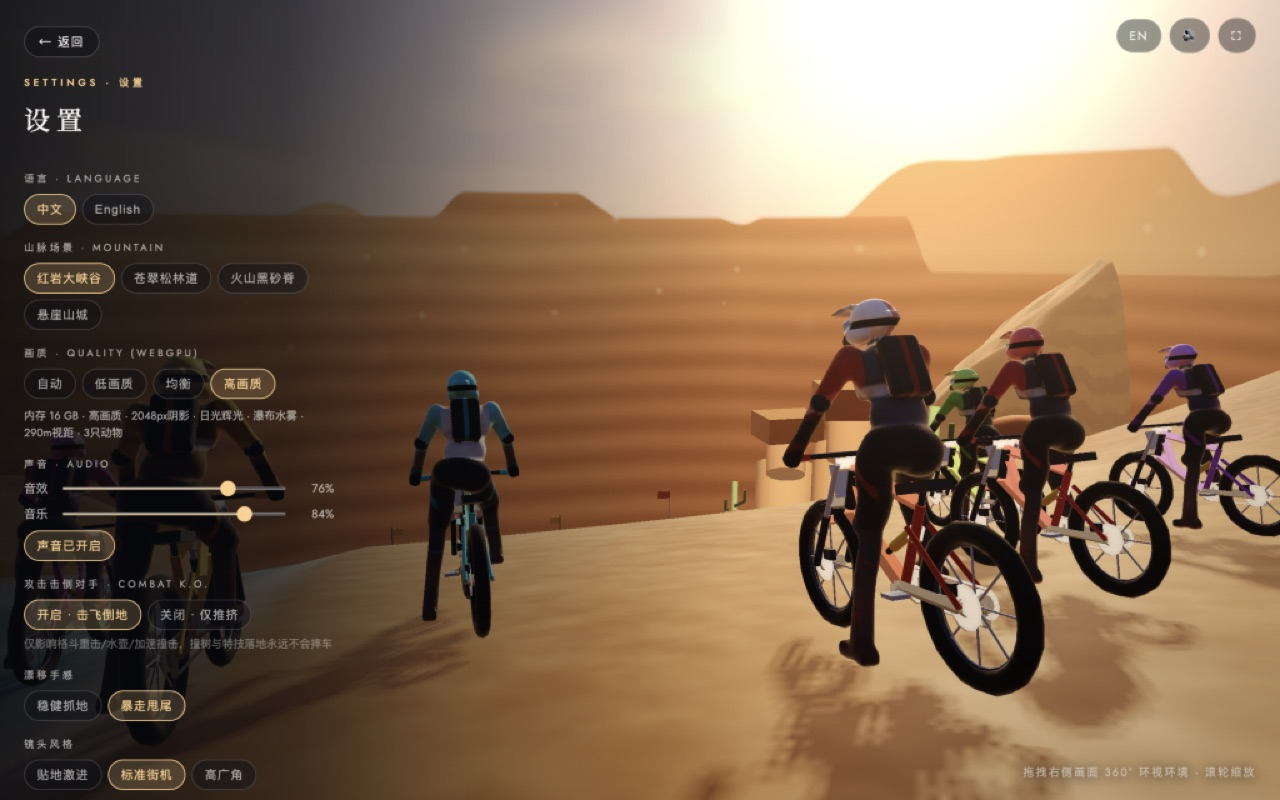
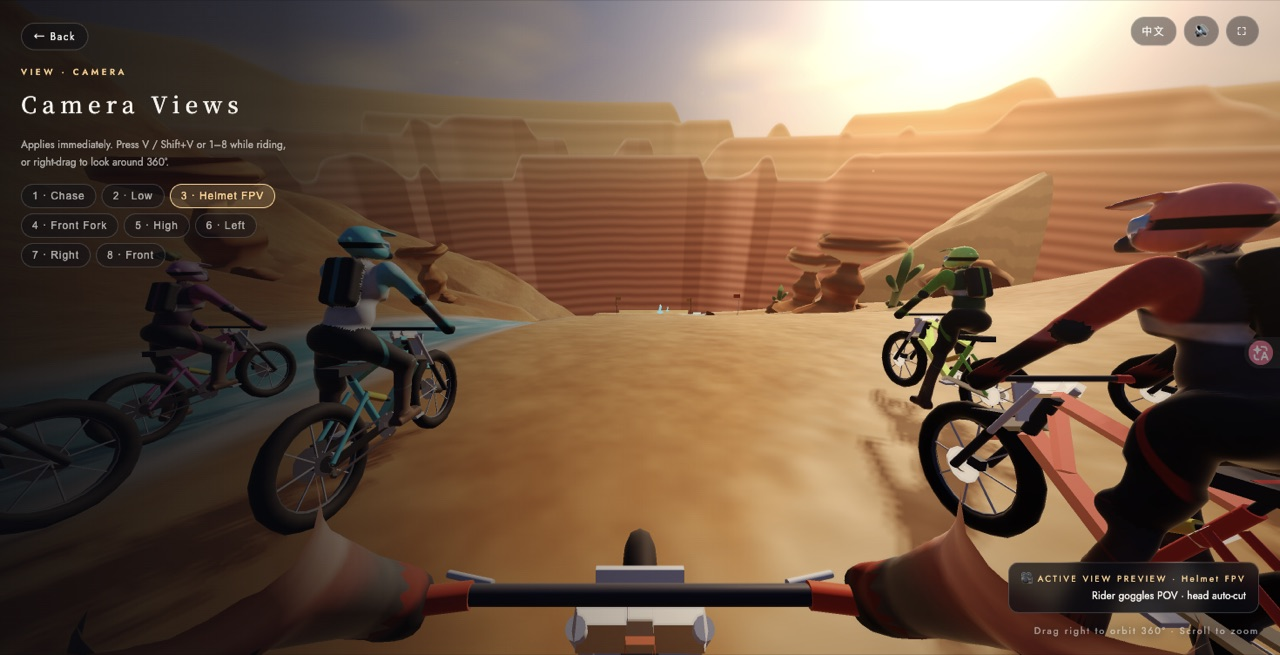
docs(v6-readme): update V6 screenshots, English-only README.md & README.zh-CN.md

diff --git a/README.md b/README.md
@@ -1,163 +1,123 @@
 <div align="center">
 
-# 暴走速降 · CrazyBike
+<h1>CRAZYBIKE · Downhill Mayhem</h1>
 
-**A pure-code, zero-asset 3D arcade downhill mountain biking & combat game in one HTML file.**
+<p><strong>A single-file WebGPU &amp; WebGL2 procedural downhill mountain biking game — sculpted canyons, endless alpine trails, cliff drops, ink-ribbon aerial stunts, pickup-driven nitro/water-bottle combat, and live 3D camera inspection.</strong></p>
 
-**一个 HTML 文件里的纯代码 3D 暴走速降山地车竞速与格斗游戏，画面与声音全部由代码实时生成。**
+<p>
+  <a href="https://crazybike.yepw.dev"><strong>Play Live (crazybike.yepw.dev)</strong></a>
+  &nbsp;·&nbsp;
+  <strong>English</strong> | <a href="README.zh-CN.md">中文</a>
+</p>
 
-[**▶ Play in your browser / 在线试玩**](https://crazybike.yepw.dev) · [English](#english) · [中文](#中文)
+<p>
+  <img src="https://img.shields.io/badge/WebGPU%20%2B%20WebGL2-Dual%20Backend-0ea5e9?style=flat-square" alt="WebGPU + WebGL2">
+  <img src="https://img.shields.io/badge/Single%20File-335.6%20KB%20(~111%20KB%20gz)-10b981?style=flat-square" alt="Bundle Size">
+  <img src="https://img.shields.io/badge/Zero%20Deps-28%20Modules-f59e0b?style=flat-square" alt="Zero Dependencies">
+  <img src="https://img.shields.io/badge/Verify-19%2F19%20PASS-22c55e?style=flat-square" alt="Verify Passing">
+</p>
 
-![CrazyBike mega cliff drop](docs/media/hero.jpg)
+<img src="docs/media/hero.jpg" alt="CrazyBike V6 Red Rock Canyon Downhill" width="100%">
 
 </div>
 
 ---
 
-## English
+## Highlights
 
-**CrazyBike** is an open-mountainside 3D downhill mountain biking game inspired by PS2 *Downhill Domination* and the pure-code WebGPU/WebGL2 architecture of [huiskylabs/cold-smoke](https://github.com/huiskylabs/cold-smoke) (MIT). Carve open slopes at 130+ km/h, send random 6–66 m cliff drops beside waterfalls and creeks, pull mid-air ink-brush stunt chains, and trade paint or knock rivals down on the way to the finish arch.
-
-What makes this repository unusual is what it **does not** contain:
-
-- **Zero runtime image, audio, 3D model, or texture files.** The terrain, canyons, pine woods, volcanoes, articulated full-suspension bikes, skinned riders, wildlife, waterfalls, wind roar, tire gravel crunch, and Lo-Fi jazz soundtrack are all generated at runtime by ~9,800 lines of plain JavaScript and shaders across 28 modules.
-- **One self-contained HTML file (~311 KB minified).** `build.js` concatenates `src/*.js` directly into `template.html`. Zero bundlers, zero frameworks, zero npm runtime dependencies (only two optional Google Web Fonts in `template.html` for UI typography, while images in `docs/media/` are strictly for this README).
-- **WebGPU first, WebGL2 fallback.** Shaders are written once in a WGSL subset (`src/02_shaderlib.js`) and translated automatically to GLSL ES 3.00 (`src/01_gfx.js`).
-
-| | |
-|---|---|
-| ![Red Rock Canyon freeride](docs/media/redrock.jpg) | ![Pine Forest Endless woods](docs/media/forest.jpg) |
-| ![Volcanic Ridge overdrive and lava cascades](docs/media/volcano.jpg) | ![Start gate pack and memory-aware Settings](docs/media/settings.jpg) |
-
-### Features
-
-- **4 Procedural Theme Mountains**: Red Rock Canyon (红岩大峡谷), Pine Forest (苍翠松林道), Volcanic Ridge (火山黑砂脊), and Hillside Town (悬崖山城), each with freeride line choice, shortcuts, U-halfpipes, flowing creeks, cascading cliff waterfalls, and random 6–66 m step-down drops.
-- **Career Tour, 3D Garage & Boundary-Free Endless Mode**: 12 Career events across Freeride, Technical, and Mountain Cross, live 3D visual bike upgrades & liveries, plus a borderless infinite-width Endless slope with **Today's Mountain** (`#today`) and shareable `#seed-xxxxxx` links.
-- **SDF-Sculpted Rider & True-Geometry DH MTB**: 23-bone skinned rider articulated at startup from signed distance fields, paired with dual-crown forks, 8-spoke wheels, brake rotors, rear derailleur, and high-cadence sprint pedaling.
-- **Airtime-Budgeted Stunts & Ink-Brush Trails**: Calculates expected airtime on takeoff to chain complete random tricks cleanly before landing with zero landing crashes, trailing painterly organic ink strokes.
-- **Adaptive Skill + Upgrade AI Matchmaking**: 7 distinct AI rivals dynamically match both your current Garage upgrade level and persistent Career skill rating, spanning slightly stronger challengers, closely matched pack peers, and trailing riders.
-- **Configurable Combat Knockdowns + Crash-Free Obstacles**: Hitting rocks or trees always triggers a smooth lateral dodge instead of abrupt wipeouts, while melee strikes, thrown water bottles/wrenches, and boost-rams can be toggled in Settings between full **Ragdoll K.O.** (`开启`) and **Shove Only** (`关闭`).
-- **Memory-Aware Quality System (`Auto / Low / Balanced / High`)**: Reads `navigator.deviceMemory`, CPU cores, and GPU renderer to scale resolution cap, 512–2048 px shadow maps, sunlit bloom/glare, particles/waterfall mist, draw distance, and wildlife count — with a live hardware & visual feature breakdown in Settings.
-- **Calibrated Binaural Audio & Warm Lo-Fi Score**: Multi-layer Web Audio pink-noise wind roar, spoke whistle, gravel roll, freewheel hub clicks, and a warm Rhodes 9th-chord Lo-Fi groove.
-- **8 Camera Views, 360° Orbit & Freeze-Frame Photo Mode**: Switch chase, close, hero, fork/fender, FPV helmet (with head geometry culling), helicopter, or side views (`V` / `1–8`), drag right to orbit 360°, or press `P` to freeze the world and compose a shot.
-
-### Controls
-
-| Context | Action | Keyboard | Gamepad / Touch |
-| :--- | :--- | :--- | :--- |
-| Ground | Steer & Carve | `A / D` or `← / →` | Left Stick / Drag |
-| Ground | Sprint Pedal | `W` or `↑` | `RT` |
-| Ground | Brake / Rear Drift | `S` or `↓` | `LT` / Drift button |
-| Ground | Charge & Jump | Hold `Space`, release | Hold `A` (`×`), release |
-| Ground | Adrenaline Overdrive | `Shift` | `RB` or `Y` |
-| Ground | Left / Right Melee or Bottle/Wrench Throw | `Q / E` or `J / K` | `LB / X` · `B` |
-| Mid-Air | Sequential Random Ink Stunt Chain | `WASD` / Arrows / `Space` | Stick + Stunt |
-| Camera / UI | Switch Camera View | `V` / `Shift+V` / `1–8` | `View` / Camera pill |
-| Camera / UI | Pause / 360° Orbit / Photo Mode | `Esc` · Right-Drag · `P` | `Menu` / Pause → Photo |
-
-### Run it locally
-
-Requires [Node.js](https://nodejs.org) 18+ and any browser supporting WebGPU or WebGL2.
-
-```bash
-git clone https://github.com/jeffierw/crazybike.git
-cd crazybike
-npm start          # builds dist/ and serves http://localhost:8080
-```
-
-Useful scripts and URL parameters:
-
-- `MIN=1 npm run build` — build minified standalone `dist/index.html` and unminified `dist/dev.html`
-- `npm run verify` — run the headless 18-check suite (WGSL+GLSL shaders, SDF mesh, 4-mountain sim, stunts, adaptive AI, quality & knockdowns)
-- URL parameters: `?backend=webgl2`, `?lang=en` or `?lang=zh`, `?quality=auto|low|balanced|high`, `?dev`, plus `#today` or `#seed-123456`
-
-### Project structure
-
-```text
-src/                  28 modules concatenated in filename order into dist/index.html
-  00_util.js          math, deterministic RNG, hashes, matrix helpers
-  00a_i18n.js         browser-language detection & live ZH/EN localization
-  00b_variants.js     live feel & wind preset switches
-  00c_quality.js      memory/GPU-aware quality detector (Auto / Low / Balanced / High)
-  01_gfx.js           dual WebGPU + WebGL2 backend & WGSL-to-GLSL translator
-  02_shaderlib.js     shared uniforms, sky/fog, noise & shadow sampling library
-  03_course.js        4-biome procedural mountains, cliffs, waterfalls, creeks, 2D endless obstacles
-  04_terrain.js       chunked LOD terrain mesh & PBR procedural material shader
-  05_sky.js           biome sky domes, clouds, distant mesas/peaks/volcanoes & bays
-  05b_sdfmesh.js      runtime SDF surface mesh builder for articulated riders
-  06_bikemesh.js      23-bone skinned DH rider + dual-suspension bike & upgrade visuals
-  07_physics.js       arcade DH physics, obstacle dodge, stunt landings & combat knockdowns
-  07b_camera.js       8 slope-adaptive cameras, FPV lensCut & 360° orbit
-  07c_feel.js / 07d_stunts.js   camera dynamics & airtime-budgeted sequential stunt engine
-  08_ai.js            adaptive upgrade+skill AI pack & endless traffic recycler
-  09_combat.js        melee punches/kicks/bats, homing bottles/wrenches & boost rams
-  09_post.js          shadow map pass, sunlit bloom/glare & speed radial blur
-  10_particles.js     sunlit dust plumes, waterfall mist & ink-brush stunt ribbons
-  14_props.js / 15_wildlife.js   landmarks, vegetation, waterfalls & sparse biome wildlife
-  18_sound.js / 18b_music.js     synthesised binaural wind, gravel SFX & Lo-Fi Rhodes score
-  19_career.js / 19b_postcard.js / 19d_photo.js / 19_ui.js   career, route card, photo mode & HUD
-  99_main.js          main loop, state machine & inspection hook
-template.html         editorial typography, styling & shell into which build.js injects src/*.js
-build.js              single-file compiler producing dist/index.html & dist/dev.html
-tools/                serve.js (local preview) & verify-mvp.js (headless verification)
-docs/media/           lightweight JPEGs used in this README showcase
-```
-
-### Credits & License
-
-[MIT](LICENSE). Rendering abstraction (`src/01_gfx.js`), memory-aware quality scaling, and pure-code single-file philosophy are inspired by [huiskylabs/cold-smoke](https://github.com/huiskylabs/cold-smoke) (MIT), paired with arcade downhill combat homage to *Downhill Domination*.
+- **Dual GPU Engine (`WebGPU` + `WebGL2`):** Single-source typed shader language (SSL) compiled at boot to both WGSL and GLSL ES 3.00 with crisp PCF directional shadows, volumetric sky scattering, ACES filmic tone mapping, bloom, and speed-adaptive atmospheric haze.
+- **4 Sculpted Procedural Biomes:**
+  - **Red Rock Canyon** — Stepped sandstone mesas, sculpted hoodoos, fluted saguaros, canyon creeks, and massive stratified cliff drops.
+  - **Pine Forest** — Jagged snow-capped granite peaks, valley cloud seas, drooping layered conifer boughs, boulders, and endless boundary-free mountain freeride.
+  - **Volcanic Ridge** — Smoking caldera crest with lava rim glow, glowing magma channels, and jagged basalt spires.
+  - **Hillside Town** — Mediterranean headlands, gleaming sunlit ocean waves, pitched-roof coastal villas, terraced stone steps, and soaring gulls.
+- **Pickup-Driven Combat & Biomechanical Melee:**
+  - Randomly spawned **Nitro Canisters** and **Water Bottles** along ramps, cliffs, and open lines replace infinite ammo refills.
+  - Thrown water bottles home onto targets only within bounded range (`≤ 26 m`). Out of pickups, pressing attack performs a randomized **Human Punch** or **Flying Kick** with custom 3-phase skeletal kinematics and distinct audio cues.
+  - **Strict Knockdown Rules:** Normal high-speed bumps trade paint safely; ragdoll knockdowns occur strictly from **Flying Kicks** or **Water Bottle** hits (plus a Settings toggle for casual freeride), with guaranteed upright recovery (`resetRiderPoseState`) on respawn.
+- **Zero-Crash Chained Stunts & Ink Ribbons:** Queue tricks continuously across massive drops (`dblcancan → whip → backflip → cancan`) with tapered brushstroke ink ribbons trails and no accidental mid-trick switches or infinite post-landing bounce loops.
+- **Live 3D Camera Preview & 8 Views:** Selecting any of the 8 camera rigs (`Chase`, `Low`, `Helmet FPV`, `Front Fork`, `High`, `Left`, `Right`, `Front`) immediately updates the 3D scene behind the menu and displays a live preview status badge. Helmet FPV automatically hides head geometry to guarantee zero visor clipping.
+- **Interactive Scenery & Wildlife:** Brushing trackside flora, rocks, and boulders triggers damped spring-sway animation, biome debris bursts, and material-specific impact audio without cheap instant crashes. Sparse biome wildlife (soaring hawks/gulls and galloping deer/bighorn) roam off-line.
+- **Memory-Aware Quality & Adaptive AI:** Automatically detects GPU/RAM/hardware threads (`Auto → Low / Balanced / High`, adjustable on pause or title) and dynamically paces 7 AI rivals (`strong / match / weak`) around your bike upgrades and sliding skill rating.
+- **Atmospheric Lo-Fi Audio Engine:** Web Audio synthesizer mixes warm Lo-Fi chill tracks, subtle tire/wind rush, stunt chimes, pickup pings, and biomechanical punches/kicks.
 
 ---
 
-## <a id="中文"></a>中文
+## World & UI Gallery
 
-**暴走速降（CrazyBike）** 是一款纯代码生成、零外部资源依赖的 3D 街头暴走速降与山地车格斗游戏，灵感来自 PS2 经典《暴走山地自行车》（*Downhill Domination*）以及 [huiskylabs/cold-smoke](https://github.com/huiskylabs/cold-smoke)（MIT）的纯代码单文件架构。
+<table>
+  <tr>
+    <td width="50%">
+      <img src="docs/media/redrock.jpg" alt="Red Rock Canyon Nitro & Sculpted Hoodoos" width="100%">
+      <p align="center"><strong>Red Rock Canyon</strong> — Sculpted hoodoos, desert shrubs &amp; pickup canisters</p>
+    </td>
+    <td width="50%">
+      <img src="docs/media/forest.jpg" alt="Endless Pine Forest & Alpine Peaks" width="100%">
+      <p align="center"><strong>Pine Forest</strong> — Endless freeride through drooping conifers &amp; snow-capped peaks</p>
+    </td>
+  </tr>
+  <tr>
+    <td width="50%">
+      <img src="docs/media/volcano.jpg" alt="Volcanic Ridge Caldera & Basalt Spires" width="100%">
+      <p align="center"><strong>Volcanic Ridge</strong> — Smoking caldera glow, basalt spires &amp; magma streams</p>
+    </td>
+    <td width="50%">
+      <img src="docs/media/town.jpg" alt="Hillside Town Coastal Villas & Sea" width="100%">
+      <p align="center"><strong>Hillside Town</strong> — Coastal villas, sunlit ocean shimmer &amp; soaring seabirds</p>
+    </td>
+  </tr>
+</table>
 
-它特别的地方在于仓库里**没有**任何图片、音频或 3D 美术资源（`docs/media/` 仅用于本 README 展示）：
+<p align="center">
+  <img src="docs/media/settings.jpg" alt="Live Camera View Preview & Helmet FPV" width="90%">
+  <br>
+  <em>Live 3D camera switching with right-hand active preview readout and Helmet FPV auto-cut</em>
+</p>
 
-- **零外部运行时资源：** 山脉地形、6–66 米随机险峻断崖、悬崖瀑布与山间小溪、U 形坡、23 骨骼 SDF 蒙皮车手、双避震山地车、野生动物、风噪、胎噪与 Lo-Fi 配乐全部由 28 个模块约 9,800 行原生 JavaScript 与着色器在运行时实时生成。
-- **单文件极简产物（约 311 KB）：** 构建脚本直接把 `src/*.js` 拼入 `template.html` 生成 `dist/index.html`，无打包框架、无 npm 运行时依赖。
-- **WebGPU 优先，自动回退 WebGL2：** 着色器仅用 WGSL 子集编写一遍，运行环境不支持 WebGPU 时自动翻译为 GLSL ES 3.00 执行。
+---
 
-### 特性亮点
+## Controls
 
-- **四座主题大山：** 红岩大峡谷、苍翠松林道、火山黑砂脊、悬崖山城，全部采用无空气墙开放路线（含多条抄近道、U 形槽、流动小溪、熔岩河与断崖瀑布）。
-- **生涯巡回、3D 改装车库与无限无尽模式：** 4 山脉 × 3 赛制共 12 场生涯赛事；车库改装会实时反映在 3D 车架、避震金管、宽胎与武器上；无尽模式取消横向边界，支持无限延展山坡、`#today` 每日全球同山以及 `#seed-xxxxxx` 种子分享，且默认单人独享流畅速降（也可一键开启 AI 混战）。
-- **空中连续喷墨特技：** 根据起跳预计滞空时间自动计算动作容量，先完整做完当前动作再衔接下一个（高空断崖可接 360° 后空翻），伴随有机水墨/喷漆彩带，落地自动回正 **永不摔车**。
-- **动态匹配实力的 AI 阵容：** AI 会根据你的改装平均等级与历史战绩实时匹配强度，7 位对手中自动形成“略强领跑 + 实力相近缠斗 + 略弱垫后”的真实竞赛梯队，告别零改装打不过或满改后毫无悬念的问题。
-- **可开关的格斗击倒系统 + 零摔车撞障：** 撞到岩石或树木永远改为丝滑侧向闪避；而近战推踹/球棒、水壶投掷和肾上腺素撞击可在设置中自由切换 **「攻击击倒对手：开启（击飞倒地后快速复活）」** 或 **「关闭（仅侧推挤）」**。
-- **内存感知画质系统（自动 / 低画质 / 均衡 / 高画质）：** 自动探测设备内存（`navigator.deviceMemory`）、CPU 核心数与 GPU 型号，动态缩放分辨率、512–2048px 阴影贴图、日光辉光、瀑布水雾、粒子密度、视距与野生动物数量，并在设置中实时展示检测到的内存与对应画面细节。
-- **Cold Smoke 标定声学混音：** 柔和自然的双耳粉红噪声山风，搭配温暖清澈的 Lo-Fi Rhodes 电钢爵士鼓点配乐。
-- **8 种自适应机位与定格拍照：** 随坡度自动抬高俯角的追尾/低伏/贴脸/前叉/头盔第一视角，支持右键 360° 环视及 `P` 键定格拍照与战报明信片 PNG 导出。
+| Action | Keys | Notes |
+| --- | --- | --- |
+| **Steer / Pedal / Brake** | `WASD` / `Arrow Keys` | Carve slopes downhill, tuck, or corner-brake |
+| **Jump** | `Space` | Hold to charge · Release to launch off lips & cliff crests |
+| **Aerial Stunt** | `Mid-Air WASD` / `Space` | Sequential ink-brush stunt chain (Zero Crash!) |
+| **Combat / Bottle** | `Q` `E` / `J` `K` | Throw picked-up Bottle (`≤ 26 m` homing), else random Punch / Flying Kick |
+| **Nitro Boost** | `Shift` | Burn adrenaline & picked-up Nitro Overdrive |
+| **Camera Rig** | `V` / `Shift+V` / `1`–`8` | Switch all 8 camera views; clickable with live 3D preview |
+| **360° Inspect / Pause** | `Right-Drag` / `Esc` | Orbit rider & horizon or open pause/camera settings |
+| **Bilingual Switch** | Top `EN / 中文` pill | Instant runtime language toggle |
 
-### 操作说明
+---
 
-| 场景 | 动作 | 键盘 | 手柄 / 触屏 |
-| :--- | :--- | :--- | :--- |
-| 地面 | 左右转向压弯 | `A / D` 或 `← / →` | 左摇杆 / 拖动 |
-| 地面 | 全力蹬车冲刺 | `W` 或 `↑` | `RT` |
-| 地面 | 刹车 / 暴走甩尾漂移 | `S` 或 `↓` | `LT` / 甩尾键 |
-| 地面 | 蓄力起跳 | 按住 `Space`，松开起跳 | 按住 `A` (`×`) 松开 |
-| 地面 | 肾上腺素暴走加速 | `Shift` | `RB` 或 `Y` |
-| 地面 | 左右格斗 / 投掷水壶与扳手 | `Q / E` 或 `J / K` | `LB / X` · `B` |
-| 空中 | 连续随机喷墨特技（零摔车） | `WASD` / 方向键 / `Space` | 摇杆 + 特技 |
-| 镜头与菜单 | 切换 8 种机位 | `V` / `Shift+V` / `1–8` | 机位键 |
-| 镜头与菜单 | 暂停 · 360° 环视 · 拍照 | `Esc` · 右键拖拽 · `P` | 菜单 / 暂停拍照 |
+## Quick Start & Build
 
-### 本地运行与验证
-
-需要 [Node.js](https://nodejs.org) 18+ 以及支持 WebGPU 或 WebGL2 的现代浏览器：
+Requires Node.js (tested on Node 20+, zero `npm install` packages needed):
 
 ```bash
-git clone https://github.com/jeffierw/crazybike.git
-cd crazybike
-npm start          # 构建并启动 http://localhost:8080
+# Development build + full automated verification suite (19 checks)
+node build.js && npm run verify
+
+# Minified production single-file build -> dist/index.html (335.6 KB)
+MIN=1 node build.js
+
+# Serve locally on port 8080 (open ?backend=webgl2 to force WebGL2 fallback)
+npm start
 ```
 
-- 压缩构建：`MIN=1 npm run build`
-- 自动化校验：`npm run verify`（验证 WGSL/GLSL 着色器、SDF 车手网格、四山脉物理与闪避、特技连招、动态 AI 与画质/击倒开关）
-- 常用 URL 参数：`?backend=webgl2`、`?lang=zh` / `?lang=en`、`?quality=auto|low|balanced|high`、`#today`、`#seed-123456`
+---
 
-### 开源协议
+## Architecture (`28` Modules in `src/`)
 
-[MIT License](LICENSE)
+| Module Group | Responsibility |
+| --- | --- |
+| `00a_i18n.js` – `00c_quality.js` | Bilingual dictionary (`EN`/`ZH`), Lo-Fi music scales, memory/hardware quality profiler |
+| `01_gfx.js` – `02_shaderlib.js` | Dual `WebGPU` + `WebGL2` abstraction & SSL-to-WGSL/GLSL ES 3.00 transpiler |
+| `03_course.js` – `05_sky.js` | Seeded multi-biome heightfields, creeks, halfpipes, drops, pickups & 4-layer sky vistas |
+| `06_bikemesh.js` – `06b_rider_anim.js` | SDF-sculpted rider mesh (`11,181` verts / `21,076` tris), 3-phase melee kinematics & world props geometry |
+| `07_physics.js` – `09_combat.js` | Slope-adaptive bike dynamics, upright knockdown recovery, 8 cameras, chained tricks & pickup combat |
+| `10_particles.js` – `15_wildlife.js` | Ink stunt ribbons, biome debris, spring-sway prop hits (`Props.onHit`), water splashes & articulated wildlife |
+| `16_career.js` – `99_main.js` | 12-event Career Tour, garage upgrades, Web Audio synthesizer, frosted glass UI & runtime hooks |
+
+`tools/verify-mvp.js` exercises WGSL/GLSL pipeline compilation, SDF rider synthesis, full biome race simulations, camera clearances, stunt chaining, boundary-free endless terrain, pickup/combat knockdown semantics, audio balance, and prop impact hits in headless Node.js.

diff --git a/README.zh-CN.md b/README.zh-CN.md
@@ -1,0 +1,123 @@
+<div align="center">
+
+<h1>CRAZYBIKE · 暴走山地速降</h1>
+
+<p><strong>单文件双端渲染（WebGPU + WebGL2）程序化山地速降竞速游戏 —— 雕刻感峡谷与高山地形、无尽林道、高空彩带特技、道具驱动氮气与水壶对战、以及实时 3D 机位预览。</strong></p>
+
+<p>
+  <a href="https://crazybike.yepw.dev"><strong>在线试玩 (crazybike.yepw.dev)</strong></a>
+  &nbsp;·&nbsp;
+  <a href="README.md">English</a> | <strong>中文</strong>
+</p>
+
+<p>
+  <img src="https://img.shields.io/badge/WebGPU%20%2B%20WebGL2-%E5%8F%8C%E5%BC%95%E6%93%8E%E6%B8%B2%E6%9F%93-0ea5e9?style=flat-square" alt="WebGPU + WebGL2">
+  <img src="https://img.shields.io/badge/%E5%8D%95%E6%96%87%E4%BB%B6-335.6%20KB%20(~111%20KB%20gz)-10b981?style=flat-square" alt="产物体积">
+  <img src="https://img.shields.io/badge/%E9%9B%B6%E4%BE%9D%E8%B5%96-28%20%E4%B8%AA%E6%A8%A1%E5%9D%97-f59e0b?style=flat-square" alt="零外部依赖">
+  <img src="https://img.shields.io/badge/%E8%87%AA%E5%8A%A8%E9%AA%8C%E8%AF%81-19%2F19%20%E9%80%9A%E8%BF%87-22c55e?style=flat-square" alt="校验全部通过">
+</p>
+
+<img src="docs/media/hero.jpg" alt="CrazyBike V6 红岩大峡谷速降" width="100%">
+
+</div>
+
+---
+
+## 核心特性
+
+- **WebGPU + WebGL2 双渲染后端：** 内置单源强类型着色器语言（SSL），启动时实时编译为 WGSL 与 GLSL ES 3.00，提供清晰 PCF 定向阴影、物理瑞利/米氏大气散射、ACES 电影级色调映射与速度感泛光。
+- **四大雕刻级程序化地貌：**
+  - **红岩大峡谷（Red Rock Canyon）：** 层理砂岩方山、风蚀石林（Hoodoos）、棱柱仙人掌、峡谷溪流与多层速降断崖。
+  - **苍翠松林道（Pine Forest）：** 冰雪覆盖花岗岩雪峰、山谷云海、下垂分层松枝、棱角巨石与无限边界速降。
+  - **火山黑砂脊（Volcanic Ridge）：** 冒烟火山口与熔岩亮边、炽热岩浆河与锯齿玄武岩簇。
+  - **悬崖山城（Hillside Town）：** 地中海岬角远景、海面波光粼粼、斜坡尖顶海滨小屋与盘旋海鸥。
+- **道具刷新机制与拟真搏击动作：**
+  - 废除无限水壶补给，改为沿飞跃台、断崖与赛道随机刷新的 **氮气罐** 与 **水壶** 拾取道具。
+  - 水壶投掷严格限制有效追踪距离（`≤ 26 米`）；无水壶时按键随机触发 **人形直拳（Punch）** 或 **飞踹（Flying Kick）**，配合三阶段骨骼肢体动画与独立合成音效。
+  - **严格击倒判定：** 普通擦碰与碰撞仅互相挤压避让（不摔车）；**仅当被飞踹或水壶命中时** 触发布娃娃击倒摔飞（可在设置中关闭），且起身复位会彻底清零特技残留角度，保证车体笔直恢复骑行。
+- **零摔车连招特技与喷墨彩带：** 飞跃断崖时按顺序稳步做完当前动作再衔接下一招（`dblcancan → whip → backflip → cancan`），拖动自然笔刷质感喷墨彩带，落地无缝衔接蹬踏，消除弹跳循环。
+- **实时 3D 机位预览与 8 大视角：** 在视角菜单中点击任意机位（追尾、贴地、头盔第一视角、前叉、俯瞰、左侧、右侧、正面），右侧画面立即切换实时预览并同步展示当前机位状态浮标；头盔视角自动遮罩头部网格，彻底杜绝穿模。
+- **可交互场景动画与原生动物：** 擦碰草木、岩石时触发阻尼弹簧摇晃动画、对应生态碎屑粒子飞溅与撞击声效（碰撞障碍物不直接摔车）；远处低密度栖息盘旋飞鸟与奔跑四足野生动物。
+- **内存感知画质与自适应 AI：** 根据设备内存、CPU 核心与 GPU 自动匹配低 / 均衡 / 高画质，7 名 AI 对手会基于玩家车辆改装等级与历史水平动态微调强/中/弱梯队节奏。
+- **Lo-Fi 氛围音景：** Web Audio 实时合成沉浸式 Lo-Fi 节奏背景音轨、克制的风噪呼吸声、水壶/氮气拾取与踢拳打击声效。
+
+---
+
+## 四大山脉与界面实拍
+
+<table>
+  <tr>
+    <td width="50%">
+      <img src="docs/media/redrock.jpg" alt="红岩大峡谷拾取氮气与风蚀石林" width="100%">
+      <p align="center"><strong>红岩大峡谷</strong> —— 风蚀石林、沙丘灌木与赛道道具拾取</p>
+    </td>
+    <td width="50%">
+      <img src="docs/media/forest.jpg" alt="苍翠松林道雪山云海" width="100%">
+      <p align="center"><strong>苍翠松林道</strong> —— 无限边界穿梭垂枝松林与远方雪峰</p>
+    </td>
+  </tr>
+  <tr>
+    <td width="50%">
+      <img src="docs/media/volcano.jpg" alt="火山黑砂脊熔岩与玄武岩" width="100%">
+      <p align="center"><strong>火山黑砂脊</strong> —— 冒烟火山口、熔岩河道与玄武岩尖峰</p>
+    </td>
+    <td width="50%">
+      <img src="docs/media/town.jpg" alt="悬崖山城海滨别墅与海鸥" width="100%">
+      <p align="center"><strong>悬崖山城</strong> —— 山坡尖顶小屋、波光海湾与飞翔海鸥</p>
+    </td>
+  </tr>
+</table>
+
+<p align="center">
+  <img src="docs/media/settings.jpg" alt="实时机位预览与头盔第一视角" width="90%">
+  <br>
+  <em>视角机位实时 3D 预览与右下角状态说明浮标（头盔第一视角自动防穿模）</em>
+</p>
+
+---
+
+## 操作指南
+
+| 操作 | 按键 | 说明 |
+| --- | --- | --- |
+| **转向 / 蹬踏 / 刹车** | `WASD` / 方向键 | 压弯贴地俯冲、冲刺提速或入弯控速 |
+| **跳跃起跳** | `Space` | 按住蓄力 · 松开从坡顶与断崖前沿腾空 |
+| **空中连招特技** | `空中 WASD` / `Space` | 高空连续喷墨特技（做完再接下一招 · 零摔车） |
+| **水壶 / 拳脚搏击** | `Q` `E` / `J` `K` | 有水壶则有限距离追踪投掷（≤26m），无道具时随机直拳或飞踹 |
+| **肾上腺素暴走** | `Shift` | 消耗肾上腺素或氮气道具加速冲刺 |
+| **切换视角机位** | `V` / `Shift+V` / `1`–`8` | 切换 8 大机位，或在“视角”菜单点击实时 3D 预览 |
+| **360° 环视 / 暂停** | 右键拖拽 / `Esc` | 随时观察环境与机位，或呼出暂停菜单 |
+| **中英语言切换** | 顶部 `EN / 中文` | 实时切换界面语言 |
+
+---
+
+## 本地构建与运行
+
+依赖 Node.js（Node 20+，无需安装任何第三方 npm 包）：
+
+```bash
+# 开发构建并运行全部 19 项自动化校验
+node build.js && npm run verify
+
+# 压缩构建生产单文件 -> dist/index.html (335.6 KB)
+MIN=1 node build.js
+
+# 启动本地 8080 端口服务（访问 ?backend=webgl2 可强制测试 WebGL2 回退后端）
+npm start
+```
+
+---
+
+## 工程结构（`src/` 共 `28` 个源码模块）
+
+| 模块范围 | 核心职责 |
+| --- | --- |
+| `00a_i18n.js` – `00c_quality.js` | 中英双语词库、Lo-Fi 调式配乐表、内存/硬件自适应画质分级器 |
+| `01_gfx.js` – `02_shaderlib.js` | `WebGPU` + `WebGL2` 统一抽象层与 SSL → WGSL / GLSL ES 3.00 转译器 |
+| `03_course.js` – `05_sky.js` | 4 大山脉随机地形、溪流、U 形坡、断崖道具点位及 4 层远景山岚 |
+| `06_bikemesh.js` – `06b_rider_anim.js` | 11,181 顶点 SDF 车手模型、三段式直拳/飞踹人体骨骼及雕塑性环境物体网格 |
+| `07_physics.js` – `09_combat.js` | 坡度自适应物理、摔倒笔直复位、8 机位相机、连招系统与水壶/拳脚战斗 |
+| `10_particles.js` – `15_wildlife.js` | 喷墨彩带、生态碎屑、碰撞弹性摇晃（`Props.onHit`）、水花粒子及写实动物 |
+| `16_career.js` – `99_main.js` | 12 场生涯赛事、车库升级、Web Audio 音频合成、UI 系统及主循环集成 |
+
+`tools/verify-mvp.js` 在无头 Node.js 环境中对全套管线编译、SDF 建模、四大生态完整跑道审计、相机净空与预览、特技连招、无尽模式、水壶/拳脚严格击倒规则、音效平衡与障碍物受击动画执行全自动回归检查。
